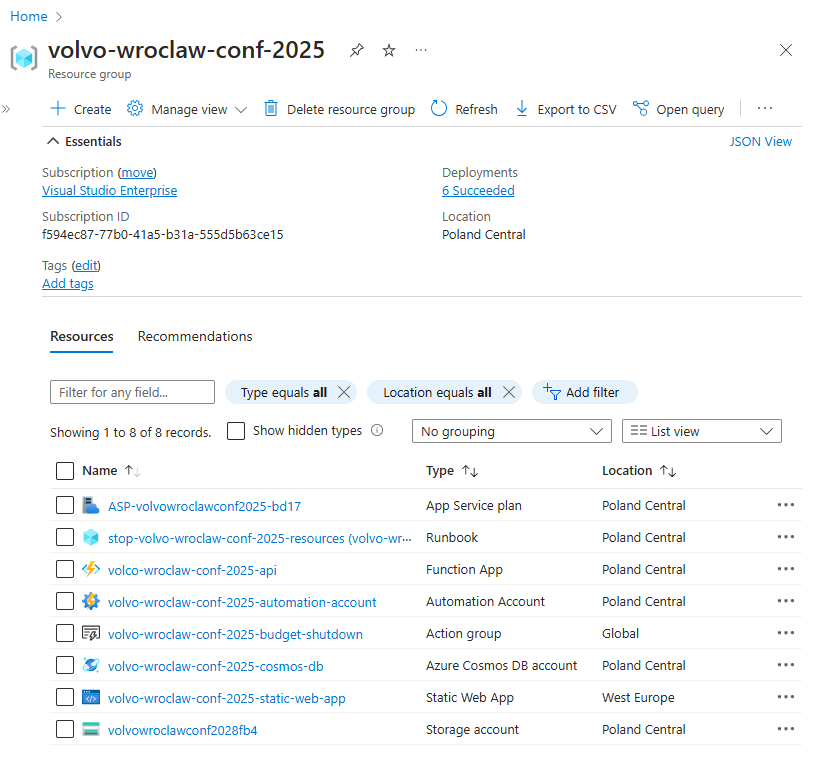
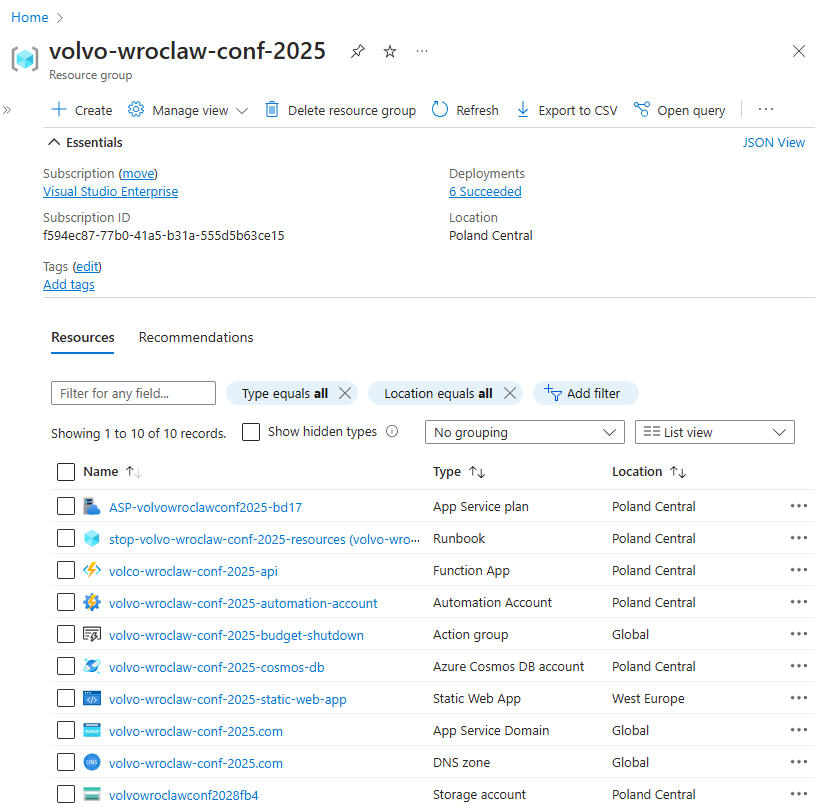
Cloud setup described

diff --git a/README.md b/README.md
@@ -2,6 +2,8 @@
 
 This repository showcases how to make a web-page that act as an application, a [Progressive Web App](https://developer.mozilla.org/en-US/docs/Web/Progressive_web_apps/Guides/What_is_a_progressive_web_app) that can be installed on desktops and mobile devices and has capabilities comparable to a native applications.
 
+Hosted demo is available at [volvo-wroclaw-conf-2025.com](https://volvo-wroclaw-conf-2025.com)
+
 This is targeted at young software developers who already know basics of programming: at least 1 modern programming language, a general idea of databases and maybe some HTML, now they want to make a useful or fun web / mobile application but are drowning in the abundance of technological choice, struggling to decide between multiple viable solutions for every problem. Experienced devs can also benefit if they are looking for fast app prototyping options.
 
 The app is made with minimal resource overhead in mind (with one notable exception). The goal is to make a prototype as quickly as possible, skipping any non-essential step and taking every possible shortcut. This application is built for rapid deployment to modern cloud for less than 5$ per month.
@@ -10,7 +12,7 @@ The app is made with minimal resource overhead in mind (with one notable excepti
 
 A Progressive Web App ( PWA ) is a web app that can be [installed on users device permanently](https://developer.mozilla.org/en-US/docs/Web/Progressive_web_apps/Guides/Making_PWAs_installable). It offers a lot additional functionality compared to regular web page, like the ability to work offline, but this project mostly uses PWA because it looks, feels and behaves like a native (i.e. mobile iOS or Android) application and because installation is required to receive push-notifications on some platforms.
 
-PWAs have a major advantage over modern day native mobile apps - PWAs don't have to go through platform-dependant application stores. No need to wait for approval on every update, no need to follow arcane platform rules. The downside is - they are often 2-nd priority for the the company which owns the platform compared to the native aps. Nevertheless, PWA technology is mature and widespread these days, having the benefit of being free and company-neutral to it's advantage which lead to it's mass adoption.
+PWAs have a major advantage over modern day native mobile apps - PWAs don't have to go through platform-dependant application stores. No need to wait for approval on every update, no need to follow arcane platform rules. The downside is - they are often 2-nd priority for the the company which owns the platform compared to the native aps. Nevertheless, PWA technology is mature and widespread these days, having the benefit of being free, company-neutral and able to run on anything with a browser to it's advantage which lead to its mass adoption. 
 
 ![PWAs](./readme/PWAs.png)
 
@@ -24,7 +26,7 @@ Modern cloud is incredibly powerful and efficient. So efficient in fact, that Cl
 
 ![Azure offering](./readme/Azure_offering.png)
 
-They give you Enterprise grade stuff for free and in return they get a highly motivated professional developer familiar with their technology - both sides win. If you look around, you will find that many PaaS providers have generous free tiers these days.
+They give you enterprise grade stuff for free and in return they get a highly motivated professional developer familiar with their technology - both sides win. If you shop around, you will find that many PaaS providers have generous free tiers these days.
 
 It is also for this reason, that companies like Microsoft and Jetbrains provide "Community" editions of their premier IDEs free of charge to non-commercial users (you just need to register a free account). For this project I recommend downloading [Visual Studio Community](https://visualstudio.microsoft.com/vs/community/), for which you will need an Microsoft Account [outlook.live.com](https://www.microsoft.com/en-us/microsoft-365/outlook/email-and-calendar-software-microsoft-outlook). This account will also be used to access [Azure Cloud](https://portal.azure.com/). 
 
@@ -36,11 +38,13 @@ _please note, that newly created/modified Azure Resource take a few minutes to b
 
 First thing you will need to do is [create an Azure Cloud Resource Group](https://learn.microsoft.com/en-us/azure/azure-resource-manager/management/manage-resource-groups-portal#create-resource-groups). Resource Groups are arbitrary containers that group your Cloud resources together to easily manage their costs and budget alarms. You can have multiple Resource Groups, it's up to you, what kind of logics to use to group resources, it does not restrict any connectivity or interaction between them. You do, however, need to decided on the preferred physical location (data center region). In a multi-region cloud you can easily spread your resources across different location and this **will** affect both their interactions and latency. For your first project - just choose a data-center closest to you and keep everything there. 
 
-The first thing we will [create is a ComsosDB account with activated lifetime free tier](https://learn.microsoft.com/en-us/azure/cosmos-db/free-tier). CosmosDB is a very flexible DB Platform that can host several different flavors of NoSQL (Document), SQL or Graph DBs. We will be using NoSQL version because it allows us to make our model as we go - we do not have to define table schemas or indexes upfront, instead our C# code will contain all our entity definitions. CosmosDB NoSQL api also provides one of the more generous free tier propositions in which you get 1000 RU/s (RequestUnits/Second). This is roughly equivalent to 1 dedicated CPU core. During / after creation go through the options in your newly create DB and make sure that it's set to limit throughput to the free 1000 RU/s. This limiter is not perfect - you can still incur charges of a few cents per hour during super-peek load, but that kind of load is a good problem to have - you're a victim of your own success 😉. 
+The first thing we will [create is a CosmosDB account with activated lifetime free tier](https://learn.microsoft.com/en-us/azure/cosmos-db/free-tier). CosmosDB is a very flexible DB Platform that can host several different flavors of NoSQL (Document), SQL or Graph DBs. We will be using NoSQL version because it allows us to make our model as we go - we do not have to define table schemas or indexes upfront, instead our C# code will contain all our entity definitions. CosmosDB NoSQL api also provides one of the more generous free tier propositions in which you get 1000 RU/s (RequestUnits/Second). This is roughly equivalent to 1 dedicated CPU core. During / after creation go through the options in your newly create DB and make sure that it's set to limit throughput to the free 1000 RU/s. This limiter is not perfect - you can still incur charges of a few cents per hour during super-peek load, but that kind of load is a good problem to have - you're a victim of your own success 😉. 
+
+_The following two resources can just as easily be created directly from Visual  Studio when you want to deploy corresponding project for the first time._
 
 Next we will [create our API - Azure Functions with Consume Tier](https://learn.microsoft.com/en-us/azure/azure-functions/functions-create-function-app-portal?pivots=programming-language-csharp). Make sure it uses the "Consumption" Tier. "Serverless" functions are the simplest possible way to run code on an HTTP request. In general - they are the simplest possible way to run code in response to many different kind of events - timers, queue messages, DB writes, [etc...](https://learn.microsoft.com/en-us/azure/azure-functions/functions-triggers-bindings?tabs=isolated-process%2Cnode-v4%2Cpython-v2&pivots=programming-language-csharp#supported-bindings). We will use this Azure Function resource to handle both User API and Admin API.  
 
-The last remaining resource we will make is hosting four our PWA - a [Static Web App](https://portal.azure.com/#view/Microsoft_Azure_Marketplace/GalleryItemDetailsBladeNopdl/id/Microsoft.StaticApp). This resource has almost nothing to configure, apart from choosing "other" as deployment source. 
+The last remaining resource we will make is hosting four our PWA - a [Static Web App](https://portal.azure.com/#view/Microsoft_Azure_Marketplace/GalleryItemDetailsBladeNopdl/id/Microsoft.StaticApp). This resource has very little to configure, apart from choosing "other" as deployment source. Once it is created - you will get a semi-random generated name for it, and it will not be pretty. The url of this static web app is the only url which your users will actually see, so it makes sense to [attach a custom domain to it](https://learn.microsoft.com/en-us/azure/static-web-apps/custom-domain). You can even buy one directly from Azure if you want to save time (though they are expensive by domain standards - 12$ for a year). 
 
 The final thing you will need is to setup a Budget. Cloud bills are notoriously unpredictable, and while you will mostly be using free-tier resource, a small monthly fee is still required for costs like file storage. Not to mention, that **malicious actors have been known to bombard public APIs with DDOS attacks aimed at artificially raking up the bills**. I recommend setting up a 10$ monthly budget that will shut down API in the group.
 
@@ -60,9 +64,22 @@ Your resource group should now look like this:
 
 ![resource-group](./readme/Resource-group.png)
 
+## Setting up Firebase cloud
+
+Firebase Cloud is a specialized cloud offered by Google on top of its normal Google Cloud. Firebase concentrates on services required by applications, mobile, web and others. We will use if for push-notifications and user sign-in with different identity providers (i.e. "Sign in with Google").
+
+Stat by [registering a free account](https://firebase.google.com/) and, [creating your Firebase Project + Application](https://firebase.google.com/docs/web/setup). After that, go to your newly-created App and make  in "Build" -> "Authentication" click "Get Started" to add this functionality to your Firebase App. You will also have to choose and configure Identity provides you want to have in your app on the "Sign-in method" tab.
+
+![Firebase sign-in providers](./readme/Firebase-sign-in-poriders.png)
+
+Then go to "Run" -> "Messaging" section and make sure it's active for your Firebase App. For messaging you will also have to [create a VAPID key pair](https://firebase.google.com/docs/cloud-messaging/js/client#configure_web_credentials_in_your_app). Its public part will be used by our WPA, private part is not used since we will be using Service Account (next paragraph). 
+
+After you're done setting up - get your [Firebase public config](https://firebase.google.com/docs/web/learn-more) (this can stored openly, since it's given to users anyway) and [Service Account key json file](https://firebase.google.com/docs/admin/setup#initialize_the_sdk_in_non-google_environments) (this must be kept secret, it's used in your server to authorize it to your Firebase account).
+
+
 ## Further in-depth reading
 
-Some of these topics warrant a whole separate book, maybe even several. Don't try to chase everything at once 
+Some of these topics warrant a whole separate book, maybe even several. The list of topics goes beyond even full-stack and into one-man-army territory, so don't try to chase everything at once. The harsh reality of modern day development is that it doesn't make sense to learn non-fundamental technologies that you won't use within the next year, since 2-3 years from now it may well be deprecated or todays tutorial outdated.
 
 [Infrastructure as code](https://learn.microsoft.com/en-us/azure/templates/) - describing cloud resources to be deployed in a domain language like Bicep (replacement for ARM) or Terraform
 
@@ -71,3 +88,9 @@ Some of these topics warrant a whole separate book, maybe even several. Don't tr
 [Azure CLI / Powershell modules](https://learn.microsoft.com/en-us/cli/azure/) - script automation for Azure 
 
 [Tagging Azure resources](https://learn.microsoft.com/en-us/azure/azure-resource-manager/management/tag-resources) - adding useful discoverable metadata bits to cloud resources like admin email, or responsible department 
+
+[CosmosDB](https://learn.microsoft.com/en-us/azure/cosmos-db/resource-model) - deeper dive when free-tier is no longer enough and you need to fine-tune performance
+
+[Responsive design with CSS](https://css-tricks.com/guides/) - make sites that adjust user-experience to device screen dimensions and overall capabilities, as well as user needs / preferences. The most value you will get out of [Flexbox](https://css-tricks.com/snippets/css/a-guide-to-flexbox/), [Grid](https://css-tricks.com/snippets/css/complete-guide-grid/) and [Media-queries](https://css-tricks.com/a-complete-guide-to-css-media-queries/)
+
+[Blazor UI components](https://demos.blazorbootstrap.com/getting-started) - lots of different pre-made widgets for Blazor UI (just one of many offers) 
